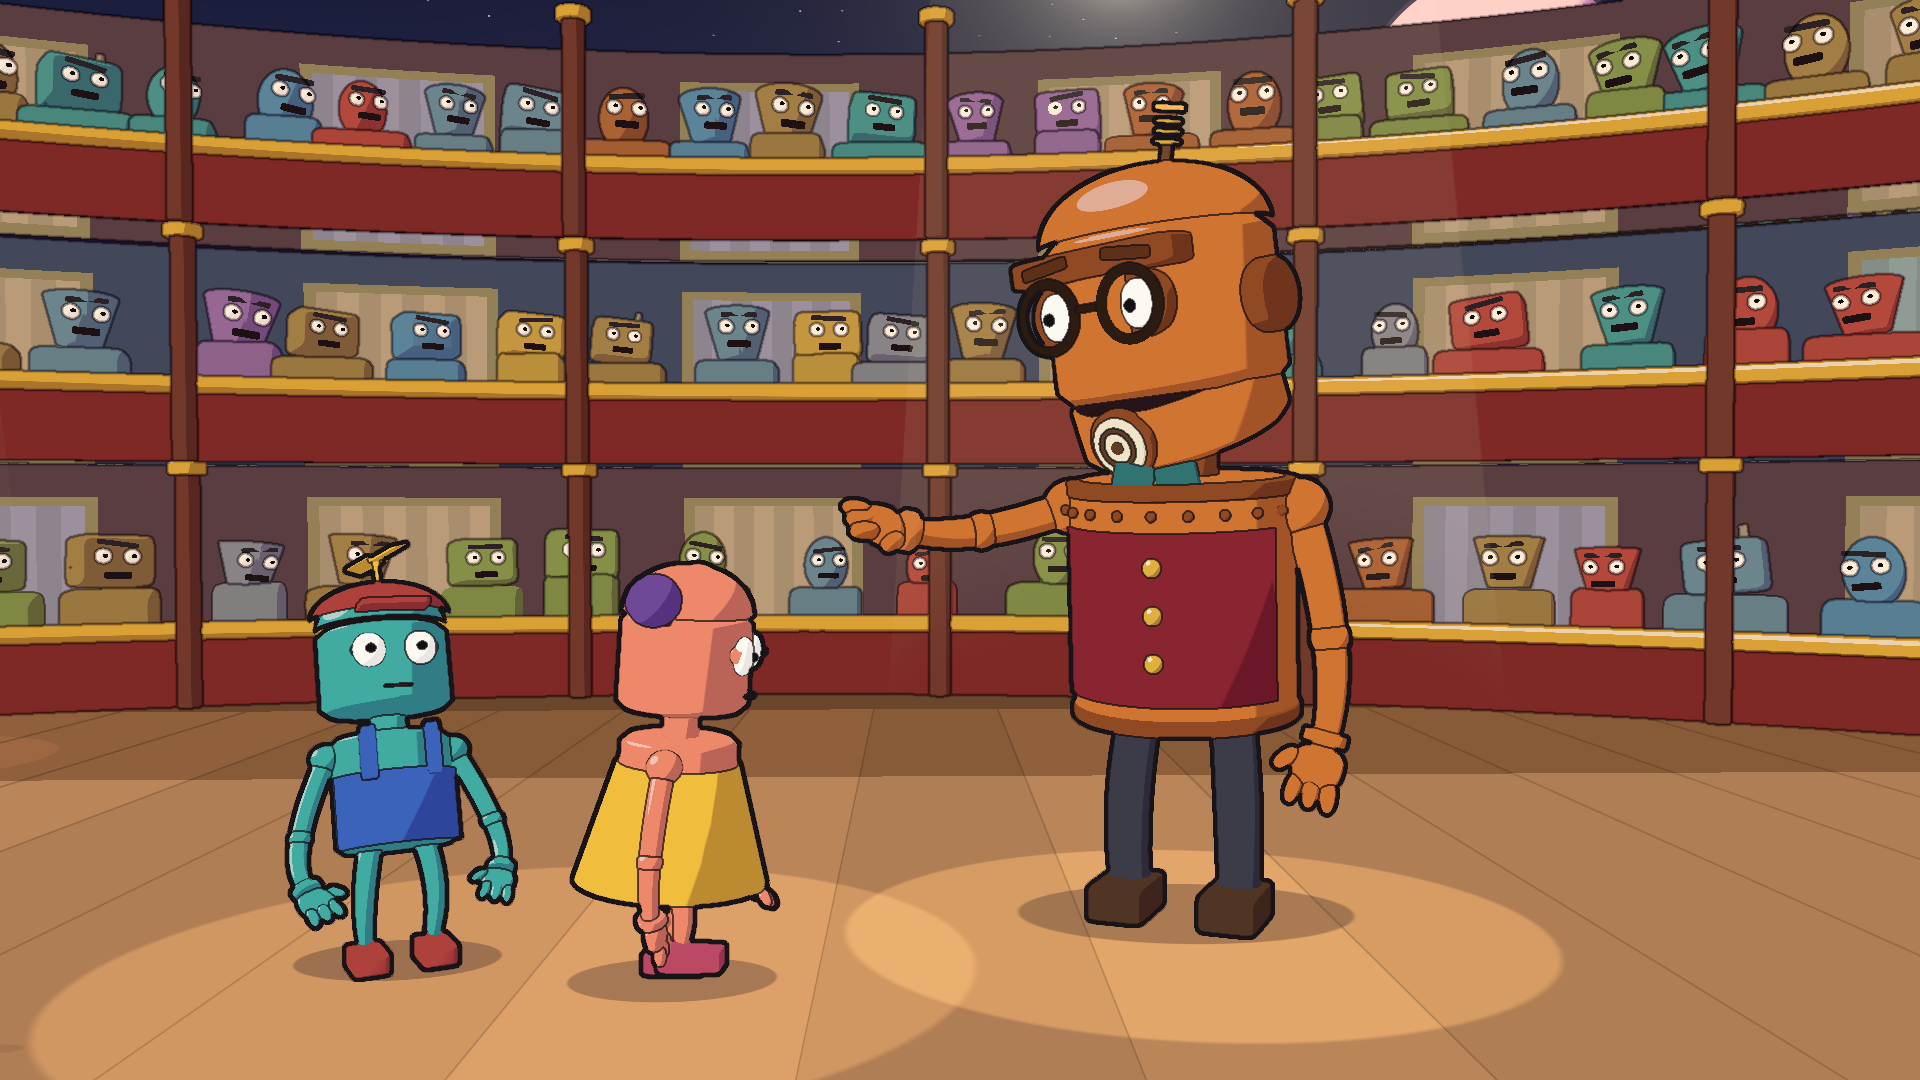
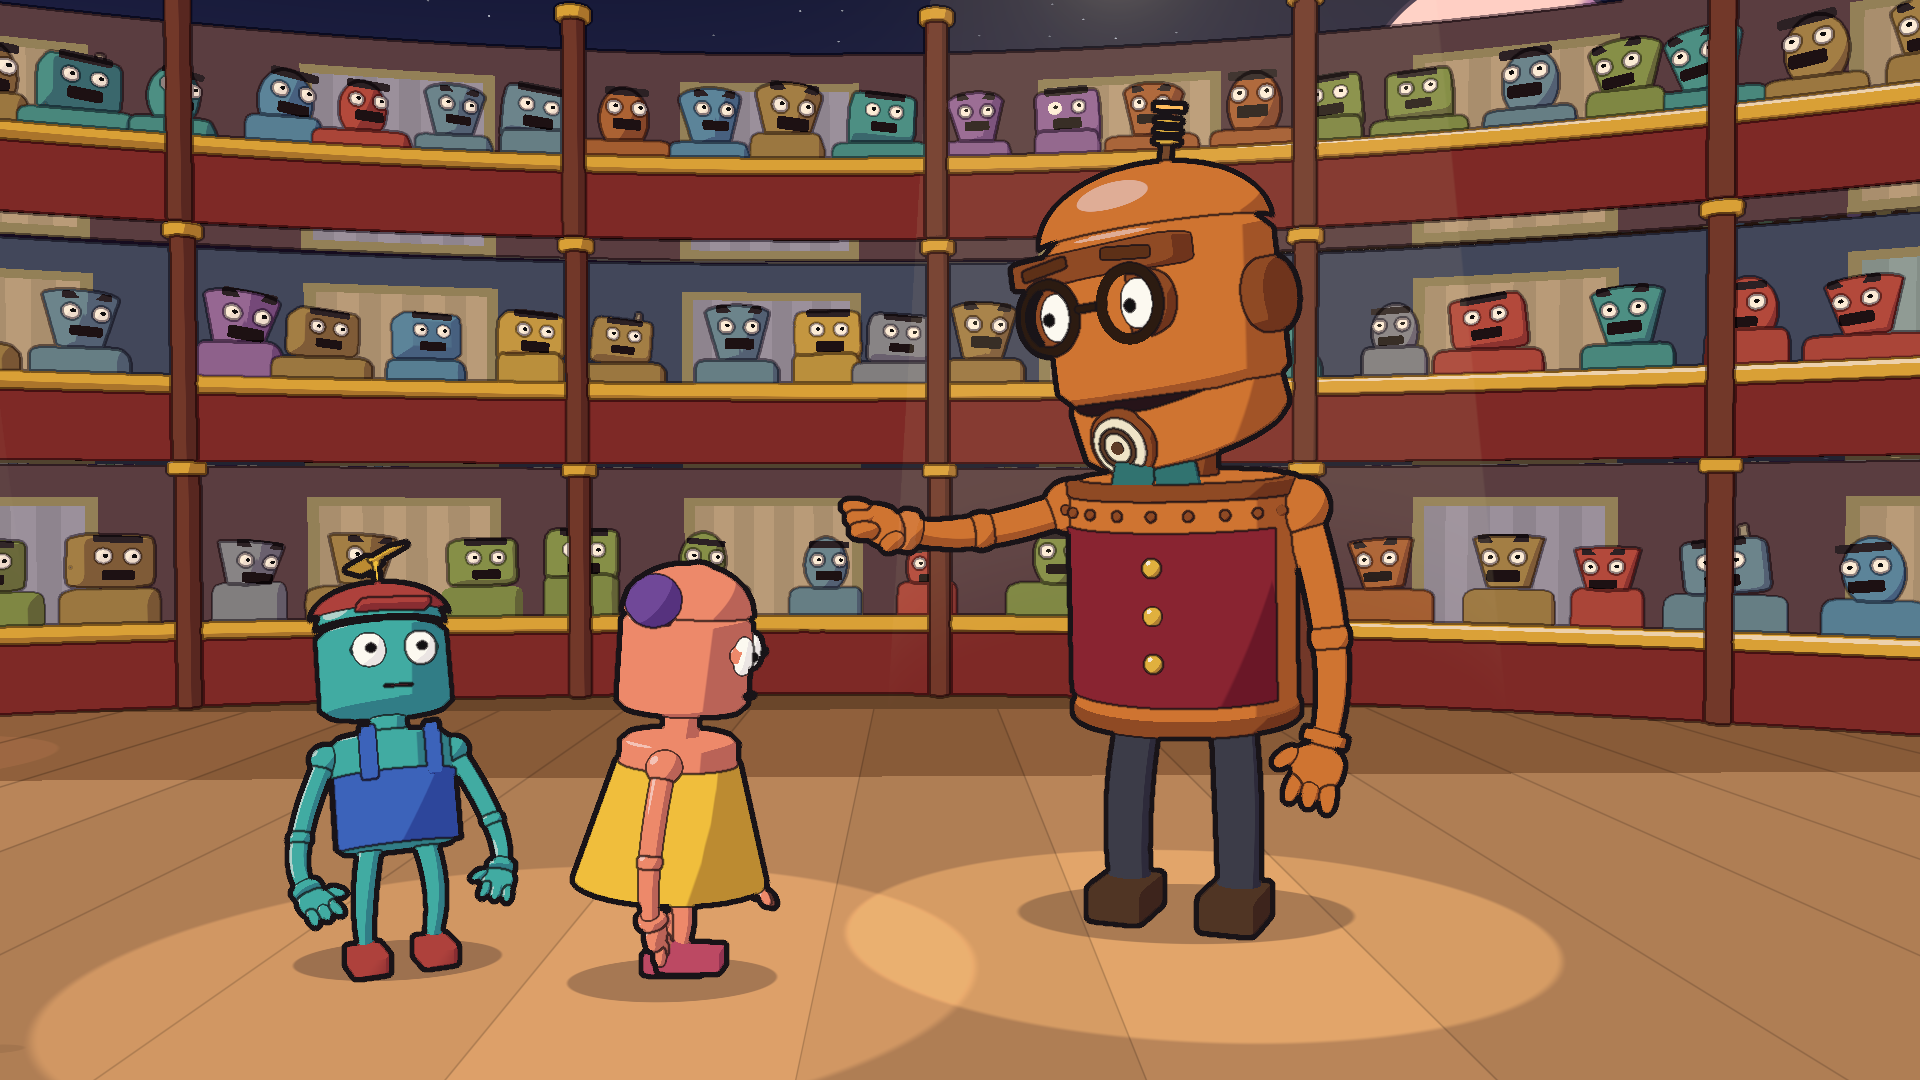
Teaching clip: house-left wide on the band's entrance, waist bows on kings, crowd joy/awe cues

diff --git a/visuals/one-more-dawn/src/lib/clips/teaching.ts b/visuals/one-more-dawn/src/lib/clips/teaching.ts
@@ -4,8 +4,10 @@
 // it here; do not edit shared engine, cast or set files from a clip lane.
 //
 // Shot list (song seconds):
-//   A  40.30 – 44.15  Wide: the band kicks in, lights warm, Aria retires
-//                     upstage left, Barnaby strolls on from stage right.
+//   A  40.30 – 44.15  High wide from house left (a clear cut away from the
+//                     close hero shot before it): the band kicks in, the
+//                     whole stage, the dream star still in the sky; Aria
+//                     retires upstage, Barnaby strolls on from stage right.
 //   B  44.15 – 47.95  Medium on Barnaby: "I helped them teach their
 //                     children"; the two kids race in and skid to his side.
 //   C  47.95 – 51.25  Low medium two-shot: "To walk, to dance, to sing";
@@ -13,7 +15,9 @@
 //   D  51.25 – 54.15  Low hero medium on Barnaby: "They trusted us with
 //                     everything"; arms burst wide, kids look up at him.
 //   E  54.15 – 57.40  Reveal: the throne rises through the trap on
-//                     "kingdoms", the kids scurry clear and bow on "kings".
+//                     "kingdoms", the kids scurry clear; all three bow
+//                     from the waist on "kings"; Barnaby rises and opens a
+//                     hand to the throne for the hand-off.
 
 import { Color, Vector3, type PerspectiveCamera } from 'three/webgpu';
 import { applyPose, blankPose, copyPose, type Pose, type Rig, type V3 } from '../rig.ts';
@@ -31,6 +35,7 @@ import {
   walk,
   type Cast,
 } from '../show.ts';
+import { set } from '../stage.ts';
 import { backOut, clamp01, easeOut, keys, lerp, noise1, ramp, smooth, span, type Key } from '../time.ts';
 
 const START = 40.3;
@@ -56,11 +61,12 @@ const T = {
   kings: W[21][0], // 56.52
 };
 
-// Hand-off envelope: 0 in the first/last 0.25 s (pure defaultFrame), 1 inside.
-const OUT_A = END - 0.55;
-const OUT_B = END - 0.25;
+// Hand-off envelope: 0 in the first 0.25 s (pure defaultFrame), 1 inside,
+// and a blend back to defaultFrame over the last 0.25 s that holds the
+// clip's pose for most of that time (exactly defaultFrame at END).
 function inside(t: number): number {
-  return ramp(t, START + 0.25, START + 0.5) * (1 - ramp(t, OUT_A, OUT_B, smooth));
+  const out = ramp(t, END - 0.25, END, (u: number) => u * u);
+  return ramp(t, START + 0.25, START + 0.5) * (1 - out);
 }
 
 // Snap into a pose with a little overshoot, then release.
@@ -194,9 +200,17 @@ function barnaby(t: number, rig: Rig, def: Pose, p: Pose): void {
   // "kingdoms": a slow, grand sweep up toward the rising throne.
   const behold = span(t, T.kingdoms - 0.3, END - 0.3, 0.45, 0.5);
   L = mixV(L, v3(-0.92, 1.05, 0.42), behold);
-  // "kings": a small deferential bow.
-  const bow = span(t, T.kings - 0.05, END, 0.3, 0.6);
-  p.lean += bow * 0.16;
+  // "kings": a courtly bow from the waist – right hand to the heart, left
+  // arm swept out low, a knee dip and a nod – then he rises and opens the
+  // left hand toward the throne, ready for the globe.
+  const bowDown = ramp(t, T.kings - 0.08, T.kings + 0.3, easeOut);
+  const bowUp = ramp(t, END - 0.5, END - 0.12, smooth);
+  const bow = bowDown * (1 - bowUp);
+  R = mixV(R, v3(0.14, 0.5, 0.46), bow);
+  L = mixV(L, v3(-0.95, 0.42, 0.2), bow);
+  L = mixV(L, v3(-0.85, 0.8, 0.45), bowDown * bowUp);
+  p.lean += bow * 0.42;
+  p.lift -= bow * 0.05;
   p.handL = L;
   p.handR = R;
   p.bendL = 0.5 + wide * 0.3;
@@ -213,14 +227,14 @@ function barnaby(t: number, rig: Rig, def: Pose, p: Pose): void {
   const proud = span(t, T.helped - 0.1, T.children - 0.1, 0.3, 0.4);
   p.lean -= proud * 0.04;
   p.headYaw = toKids * -0.35 + toKing * -0.5;
-  p.headPitch = heart * -0.04 - proud * 0.1 - wide * 0.24 - toKing * 0.2 + toKids * 0.08 + bow * 0.12;
+  p.headPitch = heart * -0.04 - proud * 0.1 - wide * 0.24 - toKing * 0.2 + toKids * 0.08 + bow * 0.4;
   p.headPitch += delight * bob * 0.06;
   // The speaker mouth is small: let the head ride each sung syllable.
   p.headPitch -= p.mouth * 0.12;
   p.headRoll = Math.sin(t * 1.1) * 0.04 + heart * 0.16 + gather * 0.12 + p.mouth * Math.sin(t * 3.0) * 0.05;
   p.headRoll += delight * Math.sin((t - T.walk) * 3.75) * 0.1;
   p.lookX = toKids * -0.4 + toKing * -0.35;
-  p.lookY = wide * 0.45 + toKing * 0.55 - toKids * 0.3;
+  p.lookY = wide * 0.45 + toKing * 0.55 - toKids * 0.3 - bow * 0.7;
 
   // Brows (raise -1..1, tilt + worried / - stern). Cheerful stroll,
   // tender on "I", proud on "helped", delighted with the kids, an
@@ -404,8 +418,21 @@ function kid(t: number, rig: Rig, def: Pose, p: Pose, which: 0 | 1): { x: number
   p.handR = mixV(p.handR, v3(0.1, 0.5, 0.24), awe);
   const rise = span(t, T.kings - 0.25, T.kings, 0.15, 0.05);
   p.lift += rise * 0.03;
-  const bow = ramp(t, T.kings, T.kings + 0.3, backOut);
+  // The bow on "kings": a bend at the waist (the rig pushes the hips
+  // back), a knee dip and a tucked head. Pip folds one arm across his
+  // tummy and sweeps the other back; Dot curtseys, hands out at her skirt.
+  const bow = ramp(t, T.kings + which * 0.1, T.kings + 0.3 + which * 0.1, backOut);
   p.lean += bow * 0.5;
+  p.lift -= bow * (which === 0 ? 0.03 : 0.05);
+  p.headPitch += bow * 0.4;
+  p.lookY -= bow * 0.5;
+  if (which === 0) {
+    p.handR = mixV(p.handR, v3(0.06, 0.2, 0.24), bow);
+    p.handL = mixV(p.handL, v3(-0.42, 0.24, -0.2), bow);
+  } else {
+    p.handL = mixV(p.handL, v3(-0.38, 0.12, 0.1), bow);
+    p.handR = mixV(p.handR, v3(0.38, 0.12, 0.1), bow);
+  }
 
   // Faces (the kids have eyes and lids, no brows): a curious head cock
   // while waiting, eyes down to their feet on "walk", bright eyes on the
@@ -463,19 +490,17 @@ function aim(c: V3, az: number, el: number): V3 {
   return [c[0] + Math.sin(a) * Math.cos(e) * 10, c[1] + Math.sin(e) * 10, c[2] - Math.cos(a) * Math.cos(e) * 10];
 }
 
-// The dream star sits ~22 deg up, ~9 deg right. A1 keeps the previous
-// shot's low angle so it stays in the upper right for the first beat.
-const A1P: V3 = [1.0, 1.0, 9.0];
-const A1Q: V3 = [1.05, 1.08, 8.8];
-const A2P: V3 = [0.9, 2.15, 9.5];
+// The dream star sits ~22 deg up, ~9 deg right of straight upstage. The
+// previous clip ends on a close, low, frontal hero shot of Aria, so A cuts
+// to a high wide from house left (about 30 deg round and far wider); the
+// star stays in the sky, upper left of frame.
+const AP0: V3 = [-5.8, 2.1, 12.8];
+const AP1: V3 = [-5.8, 2.3, 11.4];
 
 const SHOTS: Shot[] = [
-  // A1: the band hits; same low hero angle as the cut-in, the star high
-  // in frame, the house warms up around Aria.
-  { at: START, from: [A1P, aim(A1P, -1, 12)], to: [A1Q, aim(A1Q, -1, 11)] },
-  // A2: crane up and tilt down into the wide as Barnaby strolls on; the
-  // apron lip is the bottom of frame, so the stalls stay out of shot.
-  { at: 41.45, from: [A1Q, aim(A1Q, -1, 11)], to: [A2P, [1.15, 1.8, -1.0]] },
+  // A: the band hits; the whole stage from house left, then a slow pan
+  // right that picks up Barnaby and follows him to his mark.
+  { at: START, from: [AP0, aim(AP0, 25, 7)], to: [AP1, aim(AP1, 31, 3)] },
   // B: medium on Barnaby, room on the left for the kids' entrance.
   { at: 44.15, from: [[1.2, 1.6, 6.9], [1.45, 1.45, 0.3]], to: [[1.3, 1.55, 6.3], [1.45, 1.42, 0.4]] },
   // C: low two-shot, kids featured, Barnaby conducting on the right.
@@ -569,6 +594,13 @@ export const clip = {
     kidMix.copy(kidWarm).lerp(kidBright, bloom);
     const cx = lerp(-2.05, (pipX + dotX) * 0.5, w);
     setSpot(2, cx, lerp(0.7, 1.1, w), lerp(1.6, 1.5, w), pool * (1 + bloom * 0.35), kidMix);
+
+    // The house: delight from the children's entrance through "every-",
+    // then awe from the trap's rumble as the king rises.
+    const awe = span(t, T.their - 0.1, END + 2, 0.35, 0.5);
+    const joy = span(t, T.children - 0.2, T.their + 0.2, 0.5, 0.6) * (1 - awe);
+    set.crowdJoy = lerp(set.crowdJoy, joy, w);
+    set.crowdAwe = lerp(set.crowdAwe, Math.max(set.crowdAwe, awe), w);
 
     // Camera: this clip cuts in and out on its boundaries.
     camera(t, cam);
